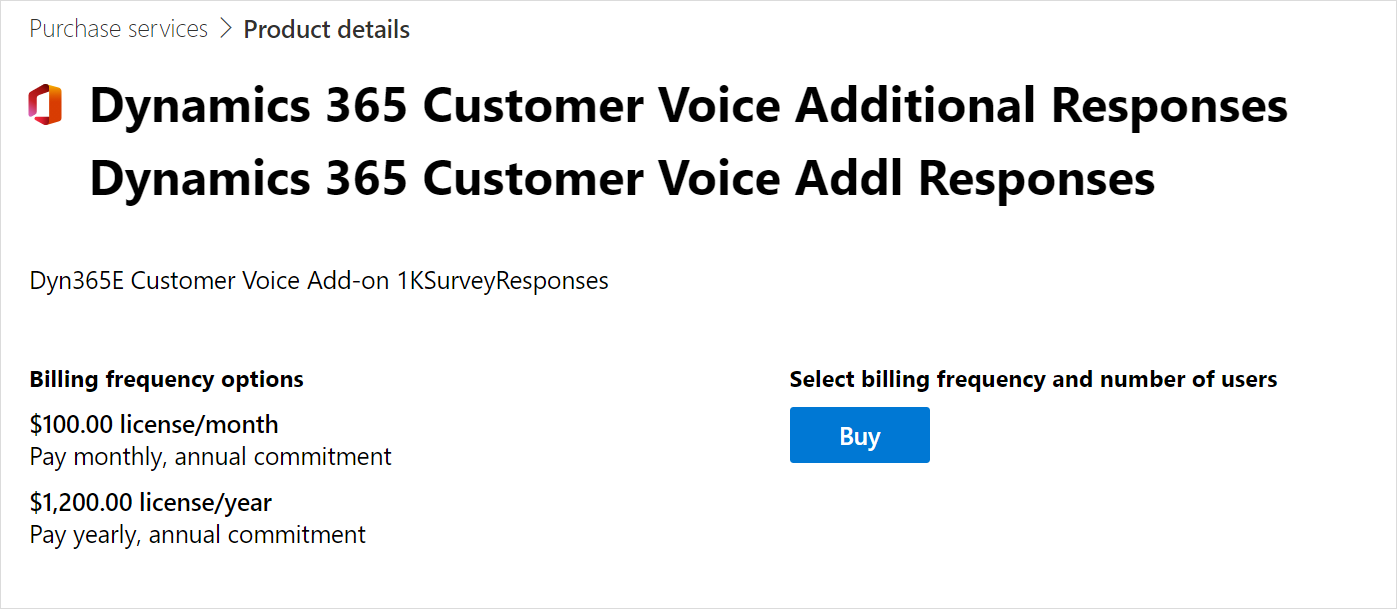
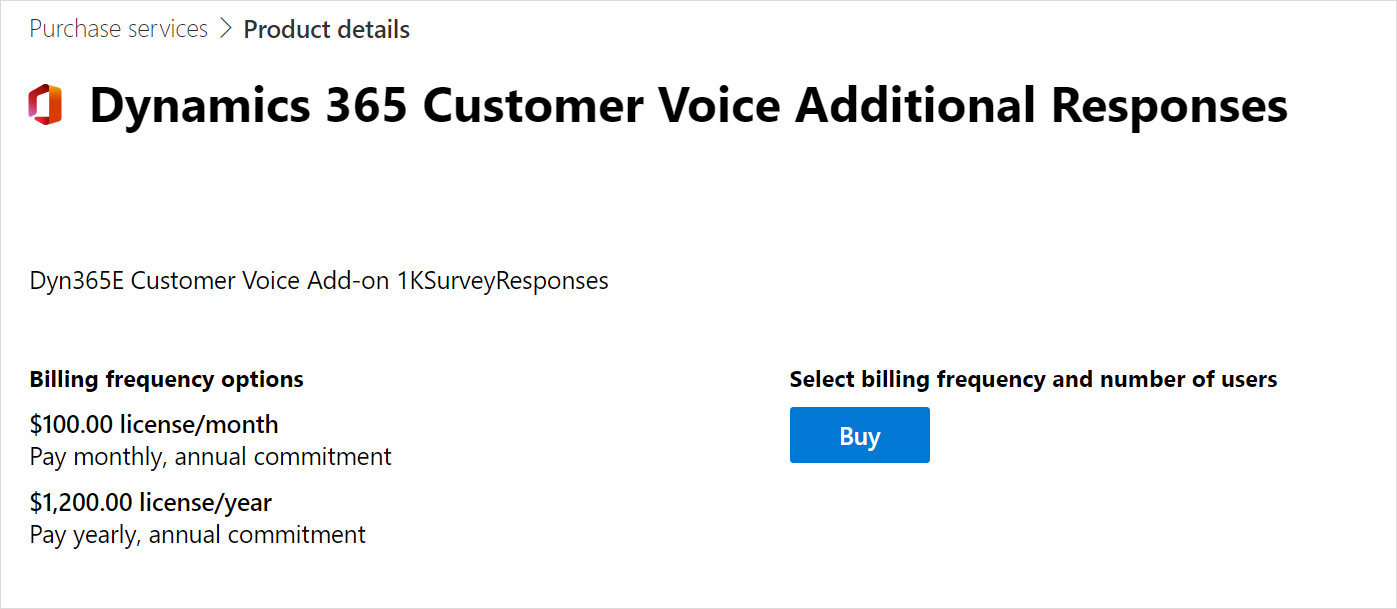
update

Changed region(s): [[0.0616, 0.2496, 0.8311, 0.3432]]

diff --git a/cv-docs/purchase.md b/cv-docs/purchase.md
@@ -55,8 +55,6 @@ If you don't have select Dynamics 365 enterprise products, you must first purcha
 
 3. Find **Dynamics 365 Customer Voice**, and then select **Details**.
 
-    ![Dynamics 365 Customer Voice tile.](media/cv-license.png "Dynamics 365 Customer Voice tile")
-
 4. From the **Select license quantity** box, select or enter the number of licenses to purchase. 
 
 5. Select **Buy**, and complete the purchase process.
@@ -72,8 +70,6 @@ After you purchase the **Dynamics 365 Customer Voice** license, you must purchas
 2. In the left pane, select **Billing** > **Purchase services**.
 
 3. Find **Dynamics 365 Customer Voice USL**, and then select **Details**.
-
-    ![Dynamics 365 Customer Voice USL tile.](media/usl-license.png "Dynamics 365 Customer Voice USL tile")
 
 4. From the **Select license quantity** box, select or enter the number of licenses to purchase.
 
@@ -109,8 +105,6 @@ If the responses included with the license are exhausted, you can purchase addit
 
 5. In the **Licenses** section, clear **Dynamics 365 Customer Voice USL**.
 
-    ![Remove the Dynamics 365 Customer Voice user license from a user.](media/disable-cv-usl.png "Remove the Dynamics 365 Customer Voice user license from a user")
-
 6. Select **Save changes**.
 
 ## Purchase additional responses
@@ -121,15 +115,13 @@ You can purchase additional responses from the Microsoft 365 admin center.
 
 2. In the left pane, select **Billing** > **Purchase services**.
 
-3. Find **Dynamics 365 Customer Additional Responses Dynamics 365 Customer Voice Addl Responses**, and then select **Details**.
+3. Find **Dynamics 365 Customer Additional Responses**, and then select **Details**.
 
-    ![Dynamics 365 Customer Voice Addl Responses tile.](media/addl-responses-license.png "Dynamics 365 Customer Voice Addl Responses tile")
+4. From the **Select license quantity** box, select or enter the number of licenses to purchase.
 
-4. Select **Buy**.
+5. Select **Buy**, and complete the purchase process.
 
-    ![Buy Dynamics 365 Customer Voice Addl Responses.](media/addl-responses-license-buy.png "Buy Dynamics 365 Customer Voice Addl Responses")
-
-5. Select the number of add-on licenses to purchase, and complete the purchase process. The purchased capacities are added on top of the available responses per month.
+    The purchased capacities are added on top of the available responses per month.
 
 
 ## Response capacity consumption
